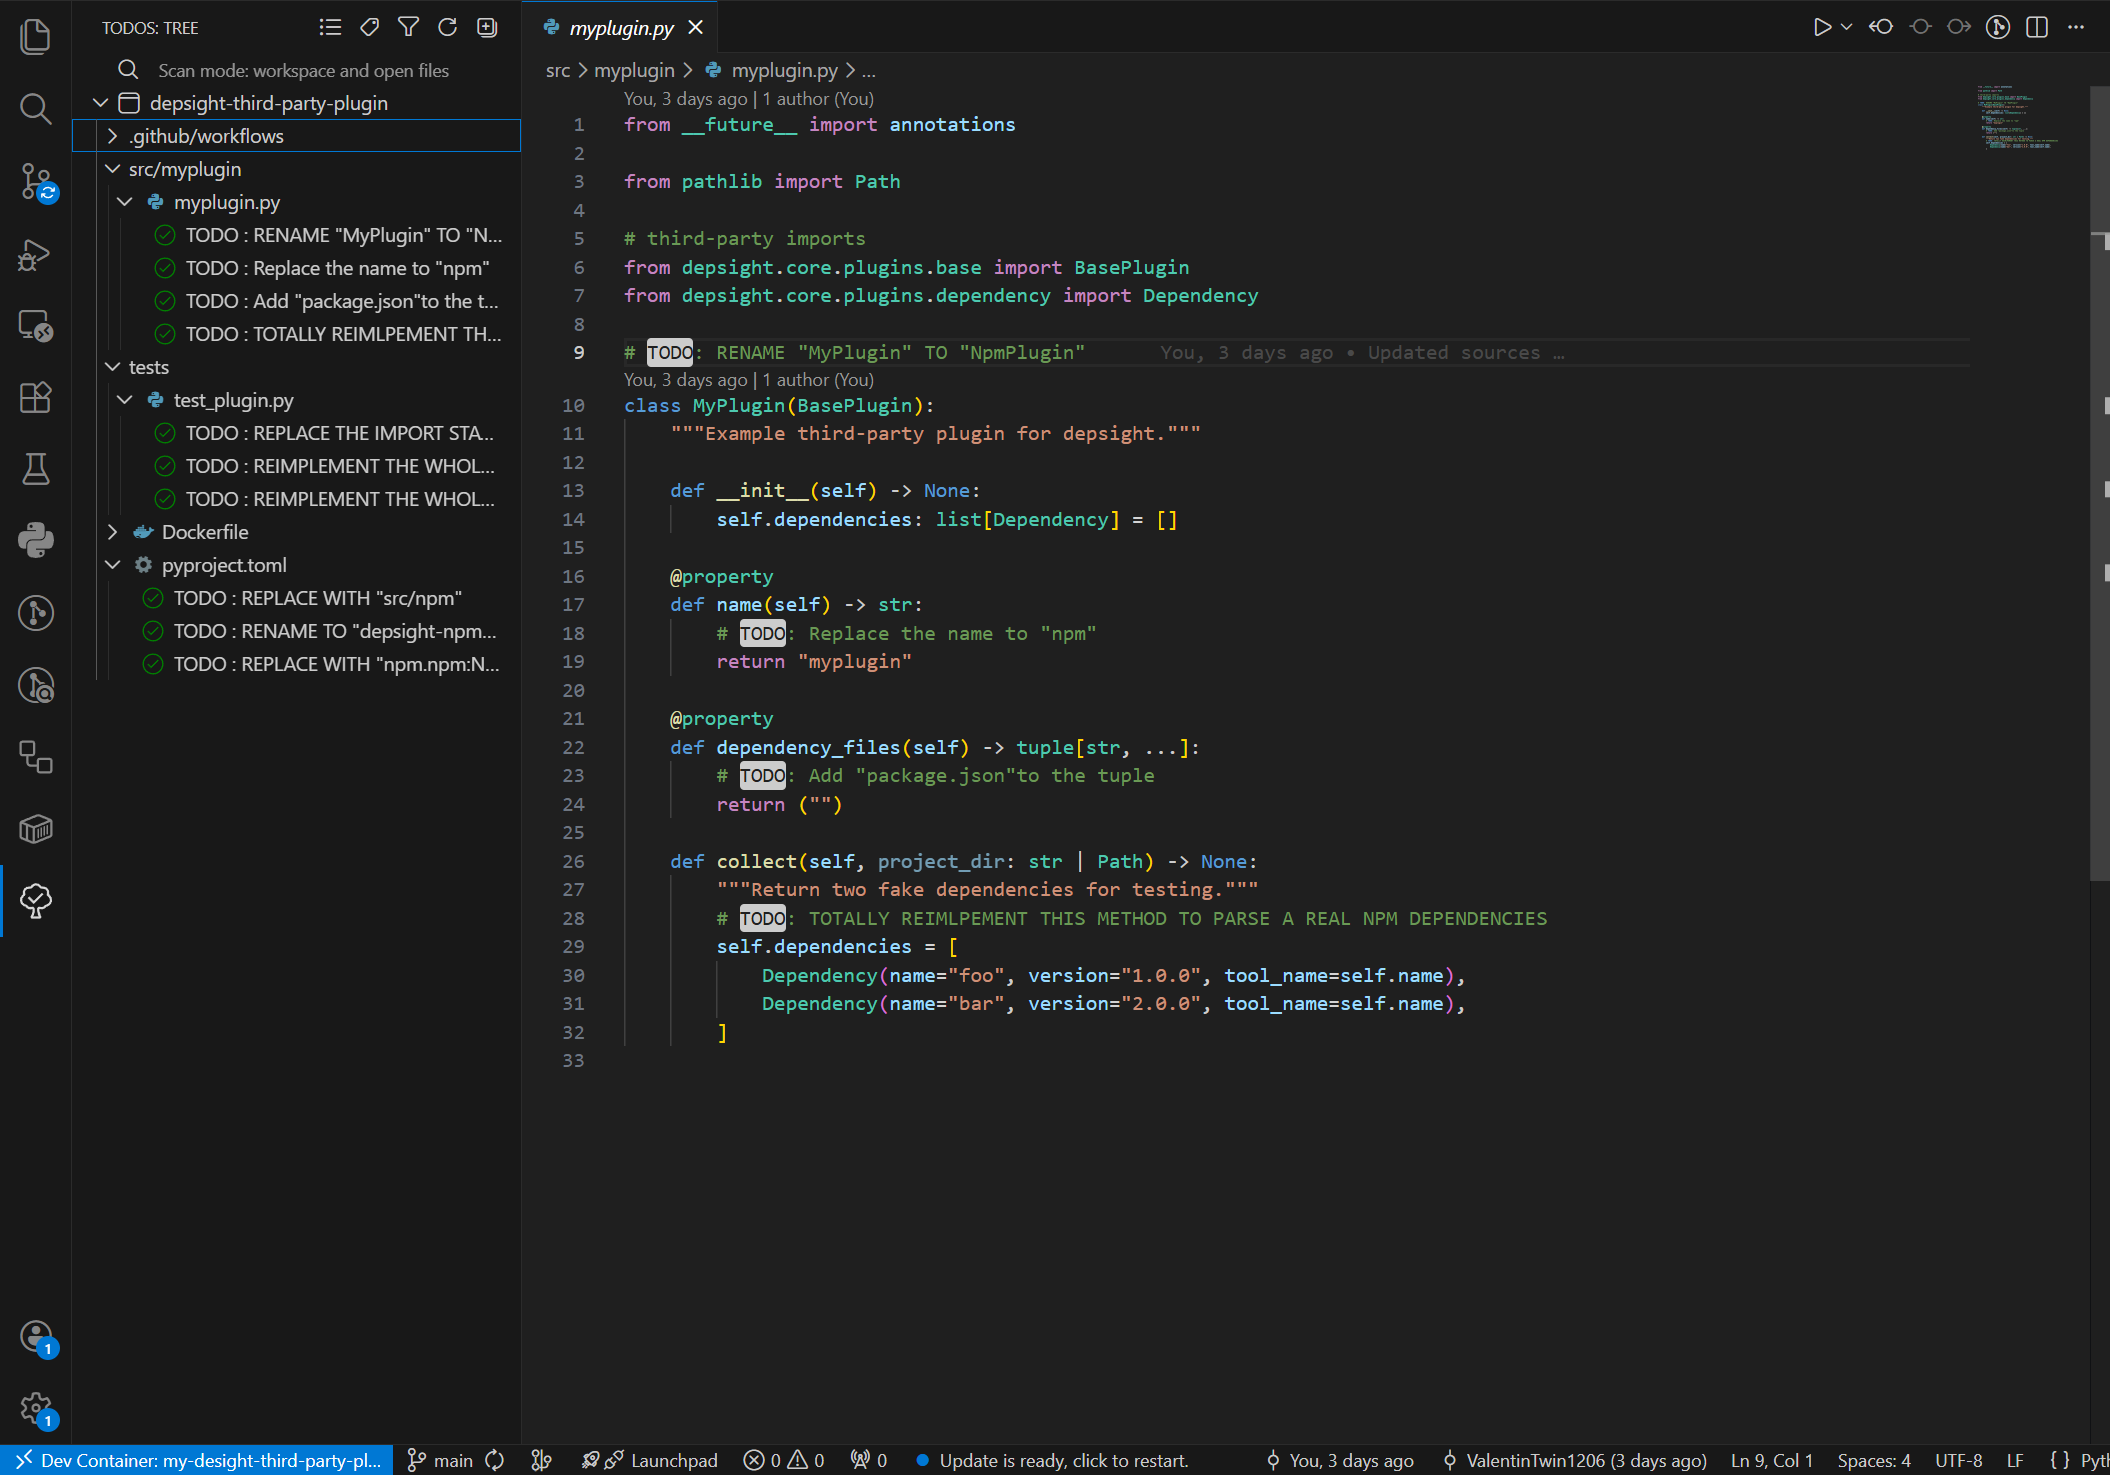
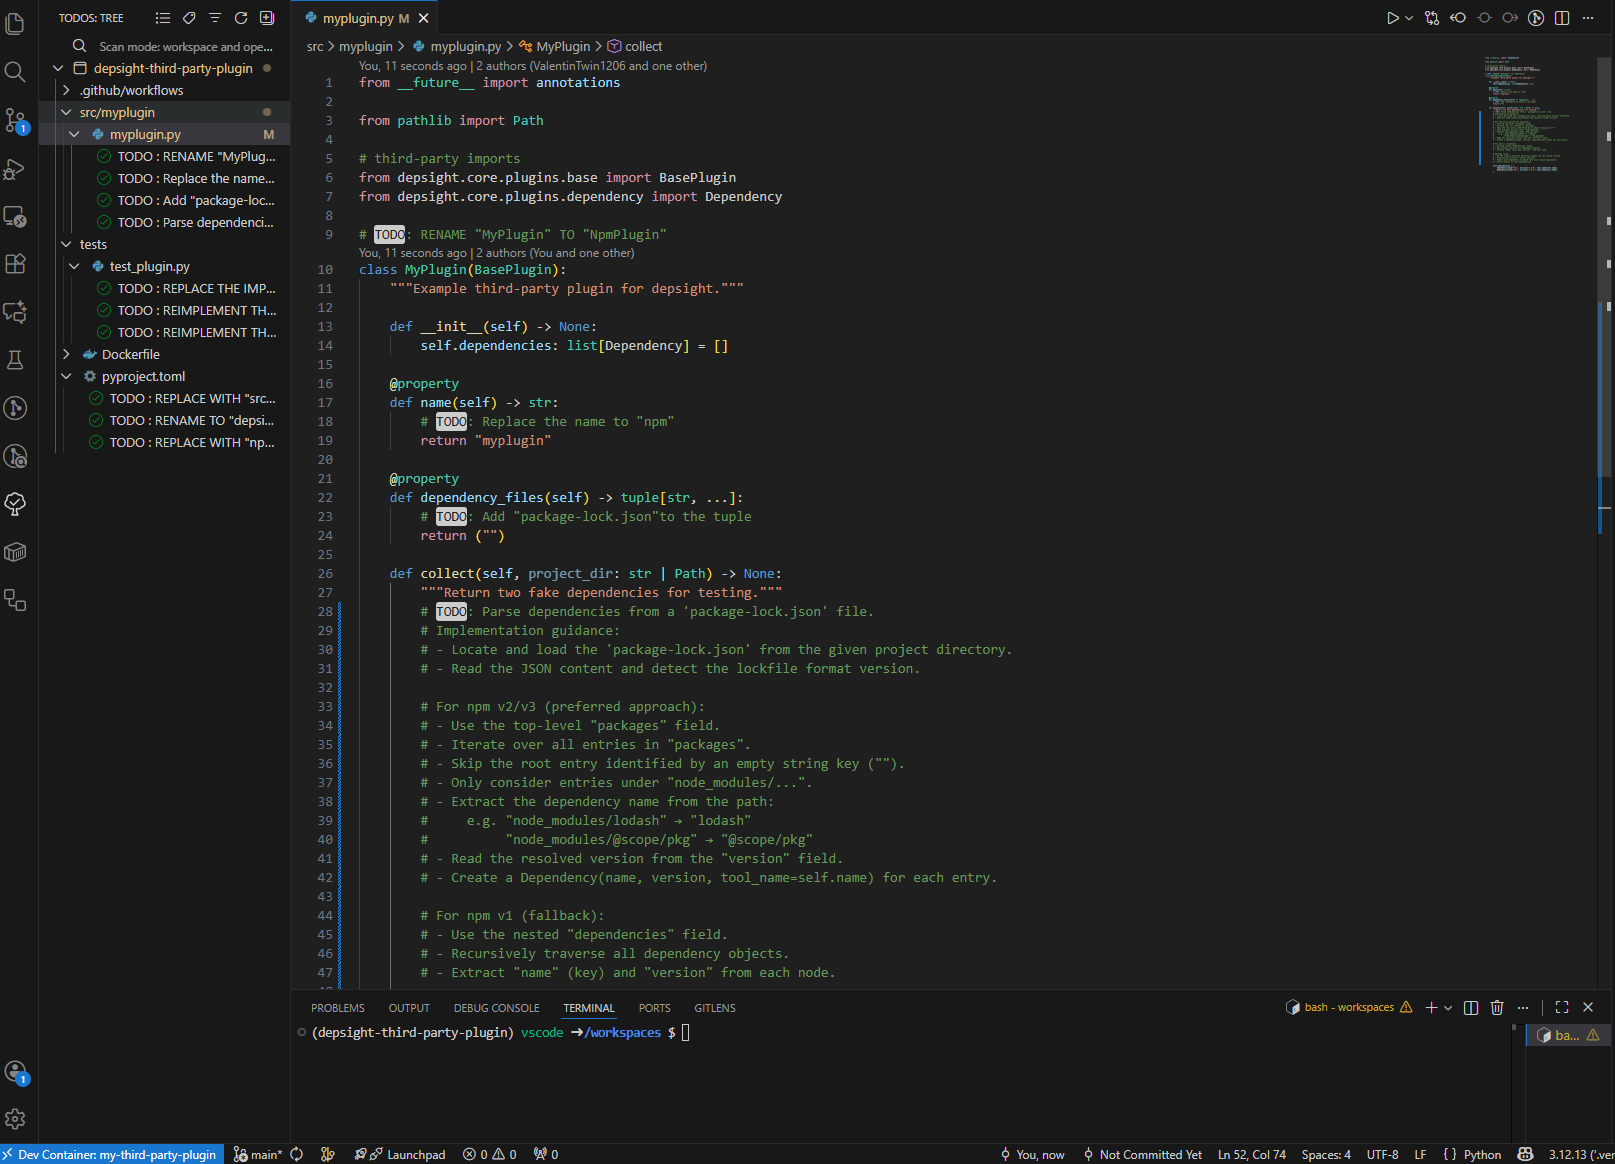
refined docu

diff --git a/docs/instructions/tasks/task-1-write-a-npm-plugin.md b/docs/instructions/tasks/task-1-write-a-npm-plugin.md
@@ -1,4 +1,4 @@
-# Task 1: Write a Third-Party NPM Plugin
+# Task 1: Write an NPM Plugin
 
 ## Task
 
@@ -6,38 +6,81 @@ With the [DevContainer environment set up](../getting-started/getting-started.md
 
 ![Depsight CLI](../../images/depsight_cli.png)
 
-Your first task is to implement an **NPM plugin for Depsight** that exposes a `depsight npm scan` command. Completing this task is a prerequisite for [Task 2](task-2-scan-dependencies.md), where you will use your plugin to run a full dependency scan on the `package.json` of the target ['fancy-fileserver'](https://github.com/ValentinTwin1206/fancy-fileserver) project and report its dependencies.
+Your first task is to implement an **NPM plugin for Depsight** that exposes a `depsight npm scan` command. 
 
-!!! info "Fancy Fileserver Already Packaged"
-    The `fancy-fileserver` repository is already available inside the DevContainer environment under `~/fancy-fileserver`.
 
-### Excursus: NPM Dependencies
+## Hints
 
-An NPM project declares its dependencies in `package.json` under two keys:
+### Download Fancy Fileserver Project
 
-- **`dependencies`** — packages required at runtime.
-- **`devDependencies`** — packages needed only during development (e.g., testing, linting).
+To begin with, open a terminal in the DevContainer and download the ['fancy-fileserver'](https://github.com/ValentinTwin1206/fancy-fileserver) project. You can use the project to verify if your implementation works as expected:
 
-Each key maps package names to version strings:
+```bash
+git clone https://github.com/ValentinTwin1206/fancy-fileserver.git /workspaces/fancy-fileserver
+```
+
+### NPM Dependencies
+
+We are focusing on the `package-lock.json` file that records the **exact dependency tree** of a project to ensure consistent and repeatable installations.
+
+- **Exact Versions**  
+  Each dependency is locked to a specific version. This prevents unexpected changes when installing packages later.
+
+- **Dependency Tree**  
+  The file includes not only direct dependencies but also all nested (transitive) dependencies required by them.
+
+- **Resolved Sources**  
+  It stores where each package was downloaded from (e.g., registry URL).
+
+- **Integrity Checks**  
+  Hashes are included to verify that installed packages have not been altered.
+
+Below is a simplified example (based on `package-lock.json`) showing how dependencies are declared:
 
 ```json
 {
-  "dependencies": {
-    "ajv": "^8.17.1",
-    "bcrypt": "^5.1.0",
-    "fastify": "^4.23.0"
-  },
-  "devDependencies": {
-    "artillery": "^2.0.28",
-    "bun-types": "^1.3.0",
-    "playwright": "^1.58.0"
+  "name": "fancy-file-server",
+  "version": "0.1.0",
+  "lockfileVersion": 3,
+  "requires": true,
+  "packages": {
+    "": {
+      "name": "fancy-file-server",
+      "version": "0.1.0",
+      "dependencies": {
+        "ajv": "^8.17.1",
+        "bcrypt": "^5.1.0",
+        "fastify": "^4.23.0",
+        "redis": "^4.6.13"
+      },
+      "devDependencies": {
+        "@faker-js/faker": "^10.0.0",
+        "@playwright/test": "^1.57.0",
+        "artillery": "^2.0.27",
+        "bun-types": "^1.3.0",
+        "playwright": "^1.57.0"
+      }
+    },
+     "node_modules/@artilleryio/int-commons": {
+      "version": "2.18.0",
+      "resolved": "https://registry.npmjs.org/@artilleryio/int-commons/-/int-commons-2.18.0.tgz",
+      "integrity": "sha512-wPxDDEvKXg/LqbRpUlJ5/Tw702l+WPav9K8HW0MAqd6Oy53EwhNBG8UK1IlY3yqy1m8Dc3yHQPNrM+UJUZzVBw==",
+      "dev": true,
+      "license": "MPL-2.0",
+      "dependencies": {
+        "async": "^2.6.4",
+        "cheerio": "^1.0.0-rc.10",
+        "debug": "^4.4.1",
+        "deep-for-each": "^3.0.0",
+        "espree": "^9.4.1",
+        "jsonpath-plus": "^10.0.0",
+        "lodash": "^4.17.19",
+        "ms": "^2.1.3"
+      }
+    },
   }
 }
 ```
-
-> NPM also uses files like `package-lock.json` and `.npmrc`, but for this task we focus exclusively on `package.json`.
-
-## Hints
 
 ### Inline TODOs
 
@@ -47,7 +90,8 @@ The DevContainer comes with the [Todo Tree](https://marketplace.visualstudio.com
 
 ![Todos Overview](../../images/todos_task_1.png)
 
-Throughout the plugin source code you will find a series of `# TODO` comments. Each one marks a specific step you need to complete in order to implement a fully working NPM plugin. Simply follow the TODOs since they guide you through reading `package.json`, collecting dependencies, and wiring up the `depsight npm scan` command.
+Throughout the plugin source code you will find a series of `# TODO` comments. Each one marks a specific step you need to complete in order to implement a fully working NPM plugin. Simply follow the TODOs since they guide you through reading `package-lock.json`, collecting dependencies, and wiring up the `depsight npm scan` command.
 
 !!! warning "Skip the `build.yml` and `Dockerfile`"
-    Implement all TODOs **except** the one inside the `Dockerfile` and `.github/workflows/build.yml`. That TODO is covered in [Task 3](task-3-package-and-publish-your-plugin.md).
+    Implement all TODOs **except** the one inside the `Dockerfile` and `.github/workflows/build.yml`. That TODO is covered in [Task 2](task-2-package-and-publish-your-plugin.md).
+

diff --git a/docs/instructions/tasks/task-2-package-and-publish-your-plugin.md b/docs/instructions/tasks/task-2-package-and-publish-your-plugin.md
@@ -1,8 +1,8 @@
-# Task 3: Package and Publish Your Plugin
+# Task 2: Package and Publish Your Plugin
 
 ## Task
 
-With a working [dependency scan](./task-2-scan-dependencies.md) in place, your NPM plugin is ready for distribution. Your final task is to **create a Python wheel and a container image** to make the plugin portable and easy to deploy on any workstation.
+With a working [implementation](./task-1-write-a-npm-plugin.md) in place, your NPM plugin is ready for packaging and distribution. Your next task is to **create a Python wheel** and package this into an **OCI container image** to make the plugin portable and easy to deploy on any workstation.
 
 ## Hints
 
@@ -14,4 +14,13 @@ Before running the workflow, make sure you have [created a Docker Hub repository
 
 The template repository already includes a `Dockerfile` and a GitHub Actions workflow script `build.yml`. Follow the inline `TODO` statements in both files to complete them. The expected outcome is a container image published to [DockerHub](https://hub.docker.com) and a Python wheel attached to a `1.0.0` release on your GitHub repository.
 
-![Todos Overview](../../images/todos_task_3.png)
+![Todos Overview](../../images/todos_task_2.png)
+
+
+### Build and Push Image
+
+Within your GitHub repository navigate to the **Actions** bar and click the **Manual Dispatch** entry on the left-side.
+
+You can leave the default values, ensure to set the version of the plugin that is specified in the `pyproject.toml`. Enable the checkbox to push the image to Docker Hub and click the *Run Workflow* button.
+
+![Run dispatch](../../images/run_dispatch.png)

diff --git a/docs/instructions/tasks/task-3-scan-dependencies.md b/docs/instructions/tasks/task-3-scan-dependencies.md
@@ -1,0 +1,36 @@
+# Task 3: Scan Dependencies
+
+## Task
+
+With an [OCI image in place](./task-2-package-and-publish-your-plugin.md), the `depsight` application should be easy accessible on any workstation that hosts a container manager.
+
+![Depsight CLI](../../images/depsight_container_cli.png)
+
+Your final task is to **scan the project dependencies** of the target ['fancy-fileserver'](https://github.com/ValentinTwin1206/fancy-fileserver) project using the built-in plugin `vsce` and your third-party plugin `npm`. Run a dependency scan with each plugin individually. Both plugins support the `--as-csv` option to export the discovered dependencies as a CSV file. You have to use this option for each scan so you end up with two separate CSV exports, one per plugin.
+
+
+## Hints
+
+### Download your OCI image
+
+Simply use the `docker` cli to download your Depsight OCI image:
+
+```bash
+docker pull {YOUR_USERNAME}/depsight_npm_plugin:latest
+```
+
+### Download Fancy Fileserver Project
+
+You can download the Fance Fileserver project with following command:
+
+```bash
+git clone https://github.com/ValentinTwin1206/fancy-fileserver.git
+```
+
+### Execute Depsight inside the Container
+
+Your Depsight container should provide `depsight` as its entry-point, thus, following command should display the general help message:
+
+```bash
+docker run --rm {YOUR_USERNAME}/depsight_npm_plugin:latest --help
+```
